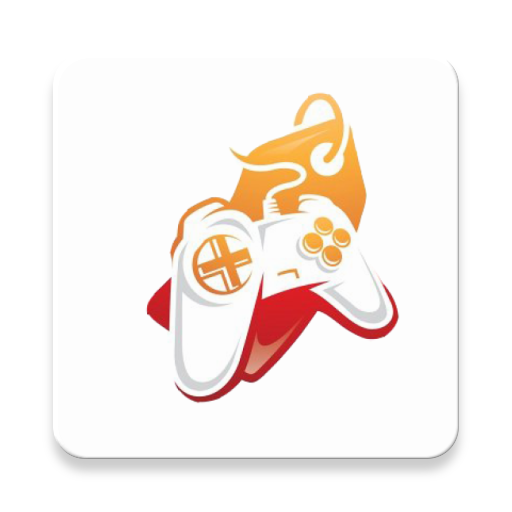
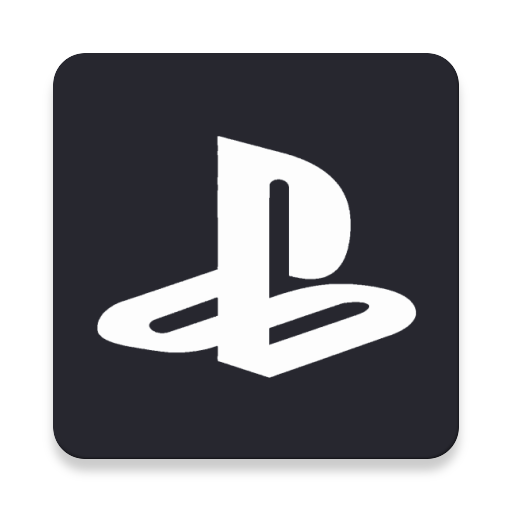
Изменены иконки(Лого, иконка запуска, иконка перехода и выхода)

diff --git a/app/src/main/java/ps_store/batuev/com/ps_store/MainActivity.java b/app/src/main/java/ps_store/batuev/com/ps_store/MainActivity.java
@@ -1,24 +1,16 @@
 package ps_store.batuev.com.ps_store;
 
 import android.annotation.SuppressLint;
-import android.app.Activity;
 import android.content.Intent;
 import android.os.AsyncTask;
 import android.os.Bundle;
 import android.support.design.widget.TextInputEditText;
-import android.support.design.widget.TextInputLayout;
-import android.view.Menu;
 import android.view.View;
-import android.widget.EditText;
-import android.os.Bundle;
-import android.support.v4.app.Fragment;
-import android.support.v4.app.FragmentTransaction;
 import android.support.v7.app.AppCompatActivity;
-
 import java.util.List;
 
 
-public class MainActivity extends Activity {
+public class MainActivity extends AppCompatActivity {
     private TextInputEditText login;
     private TextInputEditText password;
 
@@ -46,7 +38,6 @@ public class MainActivity extends Activity {
         }.execute();
 
     }
-
 
     //регистрация
     public void registration(View view) {
@@ -78,10 +69,10 @@ public class MainActivity extends Activity {
         }.execute();
     }
 
-    public void gotocontact(View view) {
-        Intent intent = new Intent(this, ContactActivity.class);
-        startActivity(intent);
-    }
+//    public void gotocontact(View view) {
+//        Intent intent = new Intent(this, ContactActivity.class);
+//        startActivity(intent);
+//    }
 
 
 }

diff --git a/app/src/main/java/ps_store/batuev/com/ps_store/GameListActivity.java b/app/src/main/java/ps_store/batuev/com/ps_store/GameListActivity.java
@@ -7,11 +7,8 @@ import android.support.v7.widget.Toolbar;
 import android.view.*;
 import android.widget.AdapterView;
 import android.widget.Spinner;
-
 import java.util.ArrayList;
 import java.util.List;
-
-
 
 
 
@@ -33,14 +30,13 @@ public class GameListActivity extends AppCompatActivity
         Toolbar toolbar = findViewById(R.id.toolbar);
         setSupportActionBar(toolbar);
 
-        //Пока - кнопка назад; Нужно сделать менюшку (автор и выход)
+        //кнопка назад;
         toolbar.setNavigationOnClickListener(new View.OnClickListener() {
             @Override
             public void onClick(View v) {
                 finish();
             }
         });
-
 //        TextView userCash = findViewById(R.id.balance);
 //        userCash.setText("Баланс: " + User.CURRENT_USER.getCash() + " р.");
 

diff --git a/app/src/main/java/ps_store/batuev/com/ps_store/GameActivity.java b/app/src/main/java/ps_store/batuev/com/ps_store/GameActivity.java
@@ -72,10 +72,4 @@ public class GameActivity extends AppCompatActivity {
     }
 
 
-    @Override
-    public boolean onCreateOptionsMenu(Menu menu) {
-        getMenuInflater().inflate(R.menu.menu_main, menu);
-        return true;
-    }
-
 }
